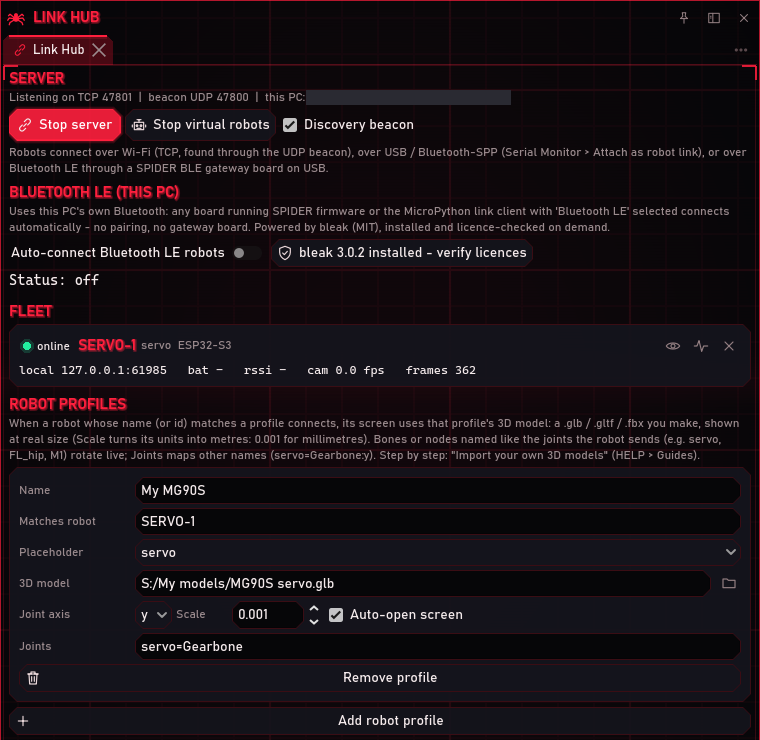
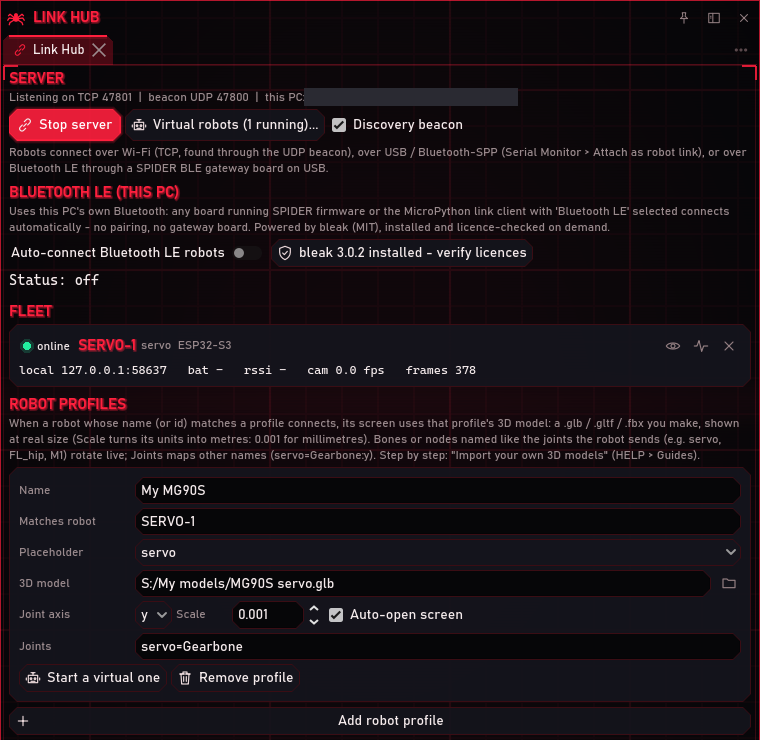
Tutorials: virtual robots for any robot profile

diff --git a/tutorials/import-3d-models.html b/tutorials/import-3d-models.html
@@ -75,7 +75,7 @@ use <strong>your own model</strong> instead: how to prepare it in Blender so its
 your robot in S.P.I.D.E.R., and share it with others.</p>
 <p>The example is the MG90S micro servo from the <a href="esp32-s3-servo-ble.html">ESP32-S3 servo tutorial</a>, modelled in
 Blender in millimetres with a bone that turns its output gear. Everything here was run on 2026-10-09 with
-S.P.I.D.E.R.'s <strong>virtual servo</strong> (<strong>Tools &gt; Spawn a virtual servo</strong>), which sends the same joint as the real board.
+S.P.I.D.E.R.'s <strong>virtual servo</strong> (<strong>Tools &gt; Virtual robots...</strong>, <code>SERVO-1</code>), which sends the same joint as the real board.
 Network addresses are blacked out in the screenshots.</p>
 <h2 id="1-how-the-3d-twin-works">1. How the 3D twin works</h2>
 <ul>
@@ -227,9 +227,14 @@ own axis: pick it in step 6.</p>
 </tbody>
 </table></div>
 <p>Changes apply at once: an open robot screen reloads the model.</p>
+<p>No hardware yet? Press <strong>Start a virtual one</strong> on the profile. A pretend robot connects under the profile's
+<strong>Matches robot</strong> name, so its screen uses this profile's model, scale and joints. Servo, dog leg, hexapod and drone
+profiles move like their own kind; any other kind (a rover, an arm) walks like the quadruped for now.
+<strong>Tools &gt; Virtual robots...</strong> lists every built-in robot and one per profile, to start several at once.</p>
+<p><img loading="lazy" alt="The Virtual robots window: built-in robots and one per robot profile" src="../assets/tutorials/import-3d-models/06-virtual-robots.png" /></p>
 <p><img loading="lazy" alt="A robot profile for the servo model" src="../assets/tutorials/import-3d-models/02-link-hub-profile.png" /></p>
 <h2 id="7-check-it">7. Check it</h2>
-<p>Connect the robot, or use <strong>Tools &gt; Spawn a virtual servo</strong>. Its robot screen opens with your model in the
+<p>Connect the robot, or start its virtual one (above). Its robot screen opens with your model in the
 <strong>TWIN</strong> view:</p>
 <ul>
 <li><strong>Drag</strong> to orbit, <strong>scroll</strong> to zoom, <strong>F</strong> to stop or start following the robot.</li>

diff --git a/tutorials/control-deck-and-controllers.html b/tutorials/control-deck-and-controllers.html
@@ -347,7 +347,7 @@ This is the servo robot's (<code>servo_robot.py</code>):</p>
 <code>release</code>, <code>live</code>, <code>rate</code>, <code>telemetry</code>, <code>options</code>, <code>unit</code>). Upload the script again (Flash Bay &gt;
 <strong>Upload link client + config</strong>) and the deck rebuilds itself when the robot reconnects. Controls you changed
 yourself win over the robot's until you press <strong>Robot defaults</strong>.</p>
-<p>SPIDER's virtual robots (<strong>Link Hub &gt; Spawn 3 virtual robots</strong>) declare a joystick, a toggle, a slider, an option
+<p>SPIDER's virtual robots (<strong>Link Hub &gt; Virtual robots...</strong>, e.g. SPIDER-DOG) declare a joystick, a toggle, a slider, an option
 list, a button and a battery readout. They are a good way to try every control without hardware:</p>
 <p><img loading="lazy" alt="A virtual robot's deck: joystick, toggle, slider, option list, button, readout" src="../assets/tutorials/control-deck-and-controllers/11-virtual-robot-deck.png" /></p>
 <h2 id="8-build-an-esp32-controller">8. Build an ESP32 controller</h2>

diff --git a/tutorials/esp32-s3-servo-ble.html b/tutorials/esp32-s3-servo-ble.html
@@ -296,7 +296,7 @@ says <em>scanning for SPIDER robots</em> even while one is connected, because SP
 <strong>SERVO</strong> row, and the 3D twin is S.P.I.D.E.R.'s built-in MG90S model at its real size (the corner shows its size in
 millimetres and the grid squares in view); its output gear follows the real angle. Drag to orbit, scroll to zoom.</p>
 <p><img loading="lazy" alt="Robot screen in the Robot Ops layout" src="../assets/tutorials/esp32-s3-servo-ble/12-robot-screen.png" /></p>
-<p><em>The two pictures in this step were taken with the virtual servo (</em><em>Tools &gt; Spawn a virtual servo</em><em>), which answers
+<p><em>The two pictures in this step were taken with the virtual servo (</em><em>Tools &gt; Virtual robots...</em><em>, <code>SERVO-1</code>), which answers
 the same commands as <code>servo_robot.py</code>. With your board the robot is called SPIDER-SERVO, and the link and <code>transport</code>
 read <code>ble</code> instead of <code>local</code> and <code>sim</code>.</em></p>
 <div class="table-wrap"><table>
